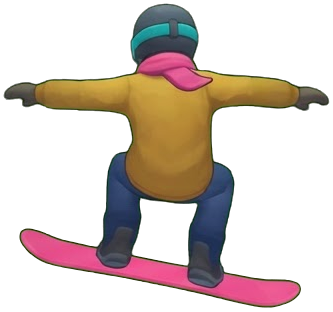
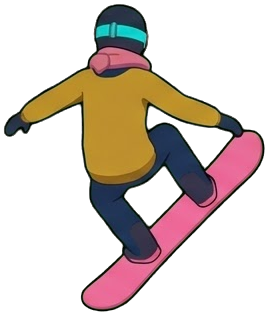
Neue Fahrer-Posen: Brett zeigt ins Tal statt quer
Geradeaus geduckt mit Brett in Fahrtrichtung, eigene Posen für Links-
und Rechtskurve sowie Sprung mit Grab; Sturz-Pose bleibt.

Claude-Session: https://claude.ai/code/session_01K9avBE44h9jo1J6jcVak2J

diff --git a/index.html b/index.html
@@ -183,7 +183,7 @@ body {
     return t;
   }
   // aspect ratios (w / h) of the cut-out sprites
-  const ASPECT = { 'rider-straight': 367 / 345, 'rider-left': 313 / 343, 'rider-air': 333 / 312, 'rider-crash': 419 / 270,
+  const ASPECT = { 'rider-straight': 175 / 267, 'rider-left': 211 / 334, 'rider-right': 232 / 324, 'rider-air': 268 / 315, 'rider-crash': 419 / 270,
     'tree-tall': 232 / 393, 'tree-round': 244 / 318, rock: 360 / 341, log: 381 / 242, snowman: 226 / 361, coin: 126 / 128, flag: 118 / 256 };
   const spriteMats = [];
   function spriteMat(name) {
@@ -194,7 +194,9 @@ body {
   const SM = {};
   for (const n of ['tree-tall', 'tree-round', 'rock', 'log', 'snowman', 'coin', 'flag']) SM[n] = spriteMat(n);
   const riderTex = {};
-  for (const n of ['rider-straight', 'rider-left', 'rider-air', 'rider-crash']) riderTex[n] = tex(n + '.png');
+  for (const n of ['rider-straight', 'rider-left', 'rider-right', 'rider-air', 'rider-crash']) riderTex[n] = tex(n + '.png');
+  // sprite heights in metres, all poses share one pixel scale (about 162 px per metre)
+  const RIDER_H = { 'rider-straight': 1.65, 'rider-left': 2.06, 'rider-right': 2.0, 'rider-air': 1.95, 'rider-crash': 1.4 };
 
   // painted sky + mountains: two camera-locked planes that cross-fade between times of day
   const SKY_AR = 1584 / 672;
@@ -766,11 +768,12 @@ body {
     rider.position.set(P.x, P.y, -P.d + 0.2);
     const vx = (P.x - P.lastX) / Math.max(dt, 0.001);
     P.carve = lerp(P.carve, P.air ? 0 : -vx * 0.035, Math.min(1, dt * 8));
-    let pose = 'rider-left', flip = P.lastFlip || 1, rh = 1.95;
-    if (P.crashed) { pose = 'rider-crash'; rh = 1.4; }
-    else if (P.air) { pose = 'rider-air'; rh = 1.85; }
-    else if (vx < -2.5) { flip = 1; P.lastFlip = 1; }
-    else if (vx > 2.5) { flip = -1; P.lastFlip = -1; }
+    let pose = 'rider-straight';
+    if (P.crashed) pose = 'rider-crash';
+    else if (P.air) pose = 'rider-air';
+    else if (vx < -2.5) pose = 'rider-left';
+    else if (vx > 2.5) pose = 'rider-right';
+    const rh = RIDER_H[pose], flip = 1;
     if (riderMat.map !== riderTex[pose]) riderMat.map = riderTex[pose];
     // spinning in the air: squash the sprite to fake the rotation
     const spinScale = P.air ? Math.cos(P.yaw) : 1;
